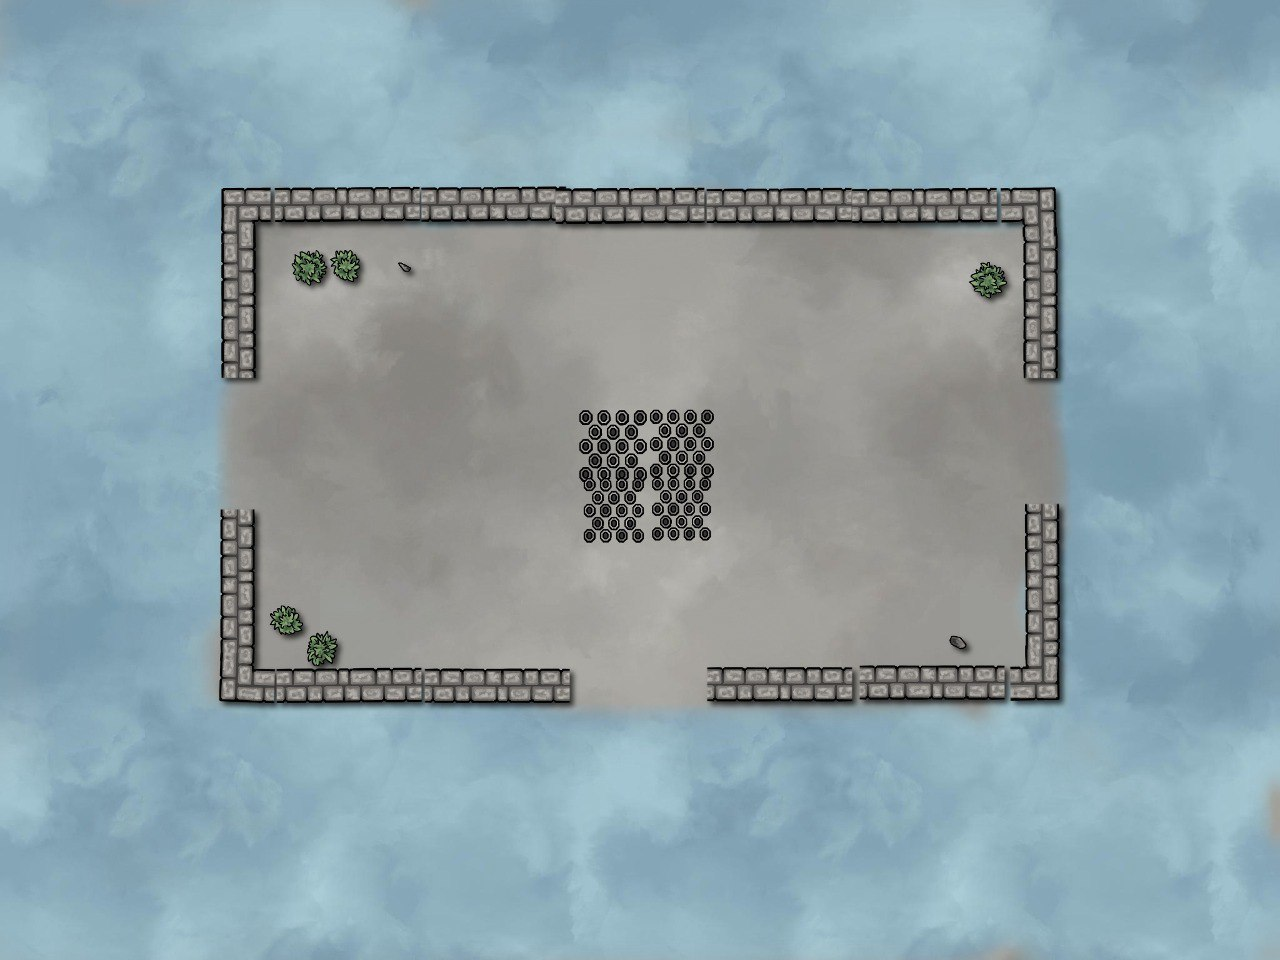
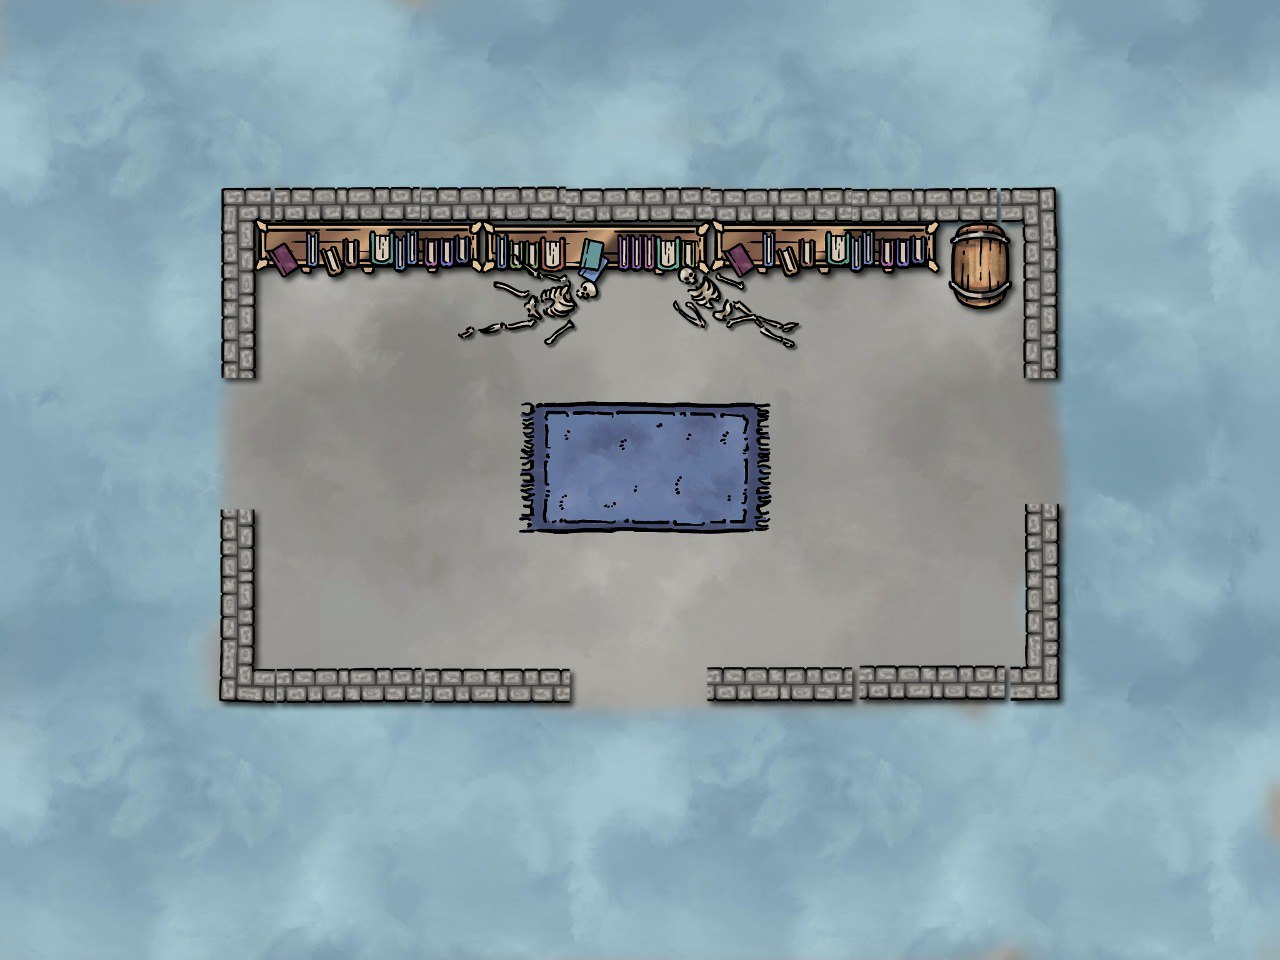
Make changes with rooms

diff --git a/main.py b/main.py
@@ -34,16 +34,39 @@ running = True
 while running:
 
     screen.fill("Grey")
+
+    # Room changing
+    if player1_x < 226 and map[room_x][room_y - 1] == 1:
+            room_y -= 1
+            room = pygame.image.load(room_choose(map, room_x, room_y))
+            player1_x = 965
+            player1_y = 408
+    if player1_x > 1000 and map[room_x][room_y + 1] == 1:
+            room_y += 1
+            room = pygame.image.load(room_choose(map, room_x, room_y))
+            player1_x = 258
+            player1_y = 418
+    if player1_y < 195 and map[room_x - 1][room_y] == 1:
+            room_x -= 1
+            room = pygame.image.load(room_choose(map, room_x, room_y))
+            player1_x = 611
+            player1_y = 603
+    if player1_y > 640 and map[room_x + 1][room_y] == 1:
+            room_x += 1
+            room = pygame.image.load(room_choose(map, room_x, room_y))
+            player1_x = 604
+            player1_y = 224
+
     screen.blit(room, (0, 0))
 
-
+    
 
 
     screen.blit(player, (player1_x, player1_y))
 
     
 
-
+    # Player moving
     keys = pygame.key.get_pressed()
     if keys[pygame.K_w] and keys[pygame.K_a]:
         if (player1_x > 246 or (player1_y > 378 and player1_y + player_hitbox.height < 510)) and (player1_y > 222 or (player1_x > 574 and player1_x + player_hitbox.width < 708)):
@@ -74,7 +97,6 @@ while running:
     elif keys[pygame.K_w]:
         if player1_y > 222 or (player1_x > 574 and player1_x + player_hitbox.width < 708):
             player1_y -= player_speed
-
 
 
     # print(player1_x, player1_y)
